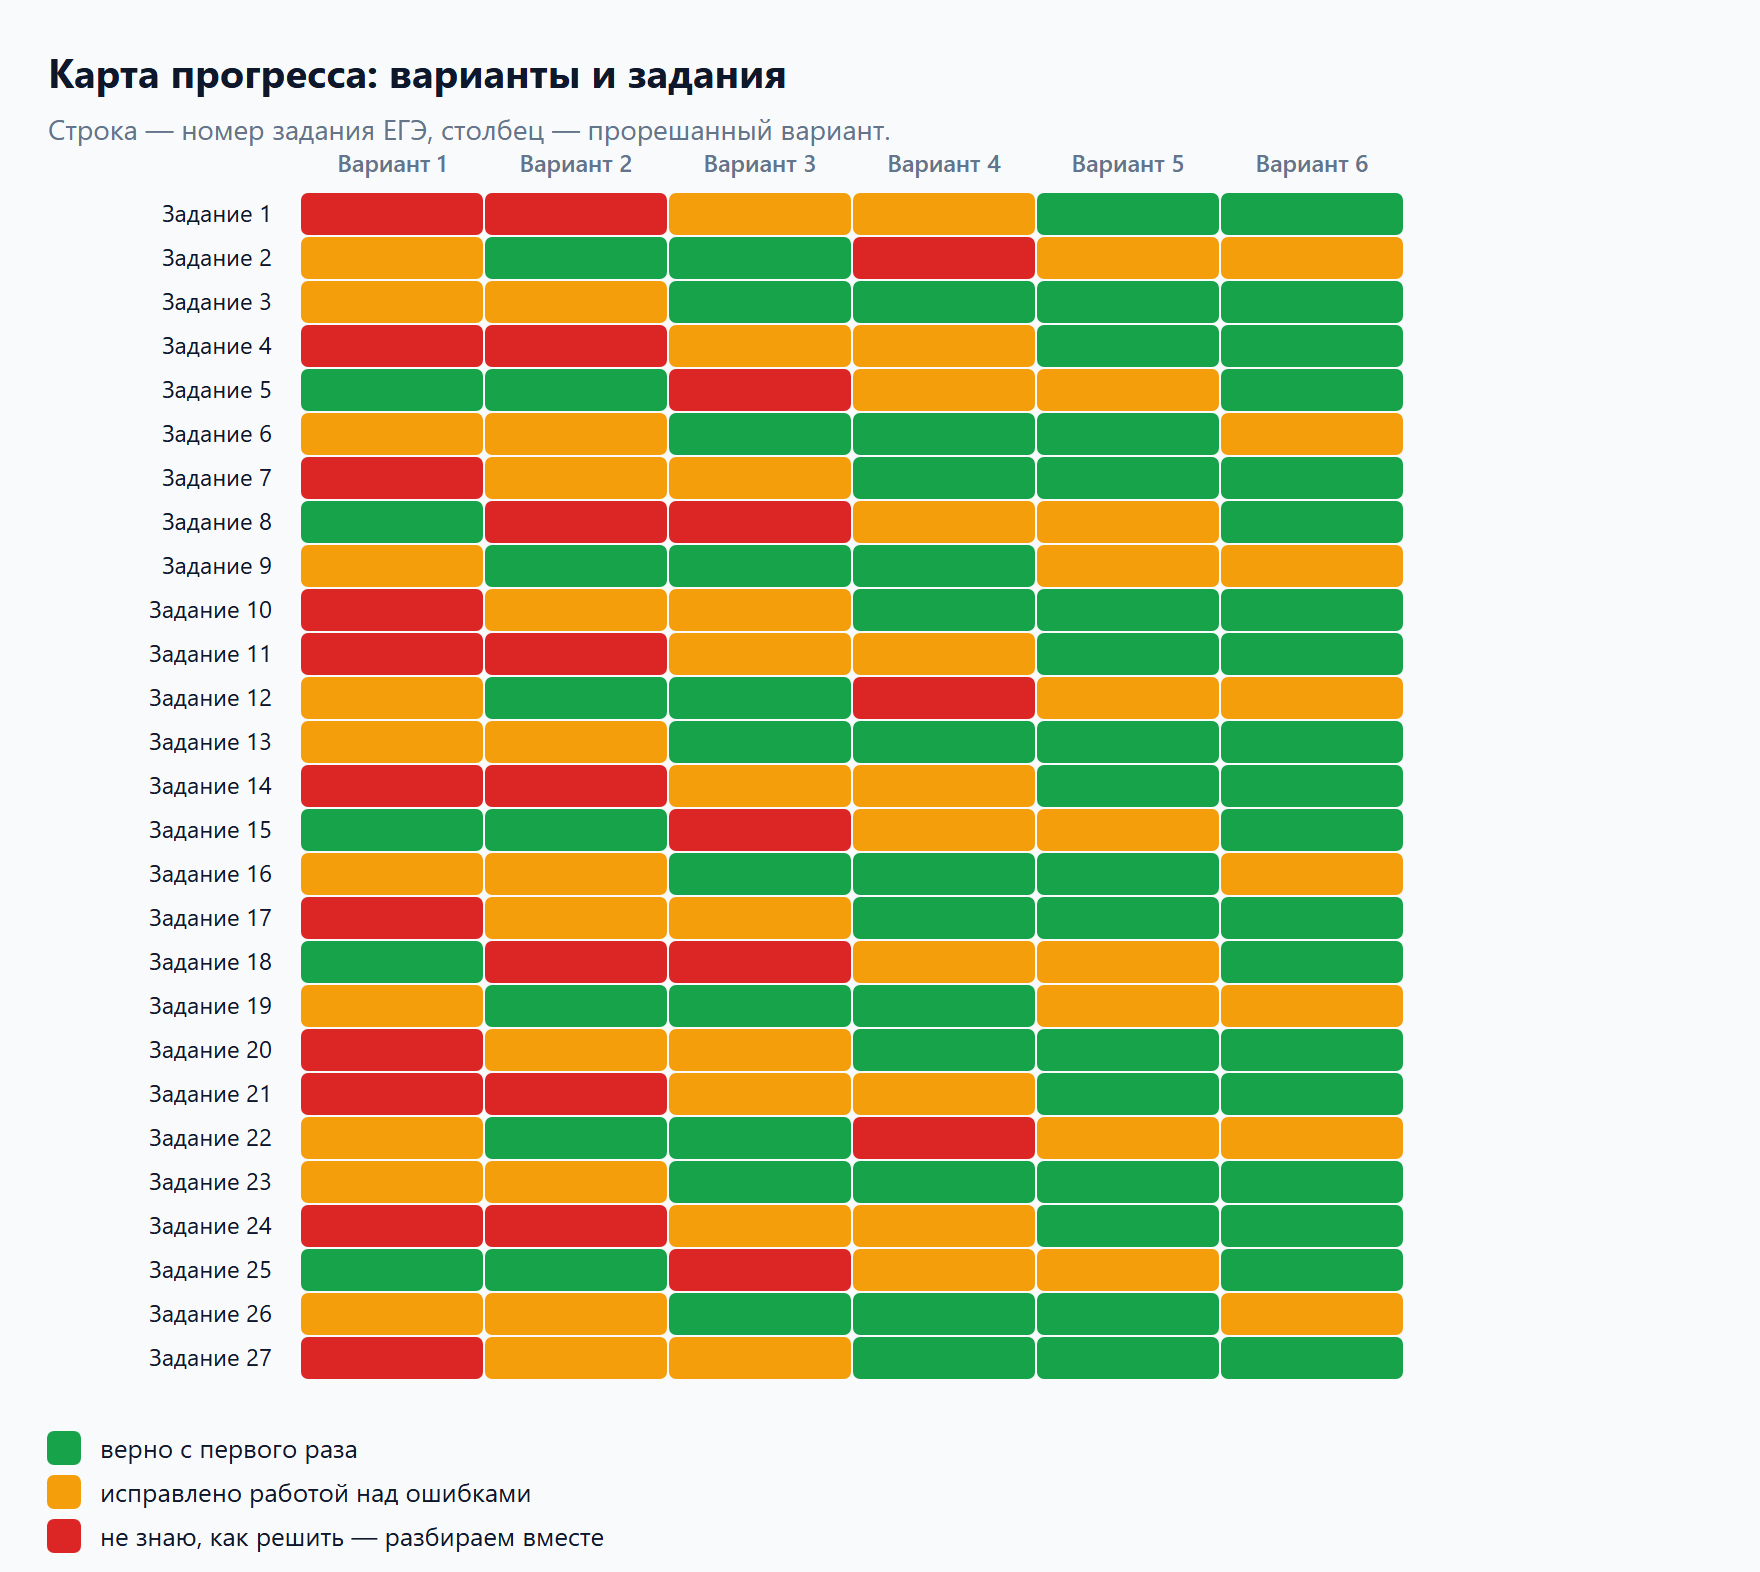
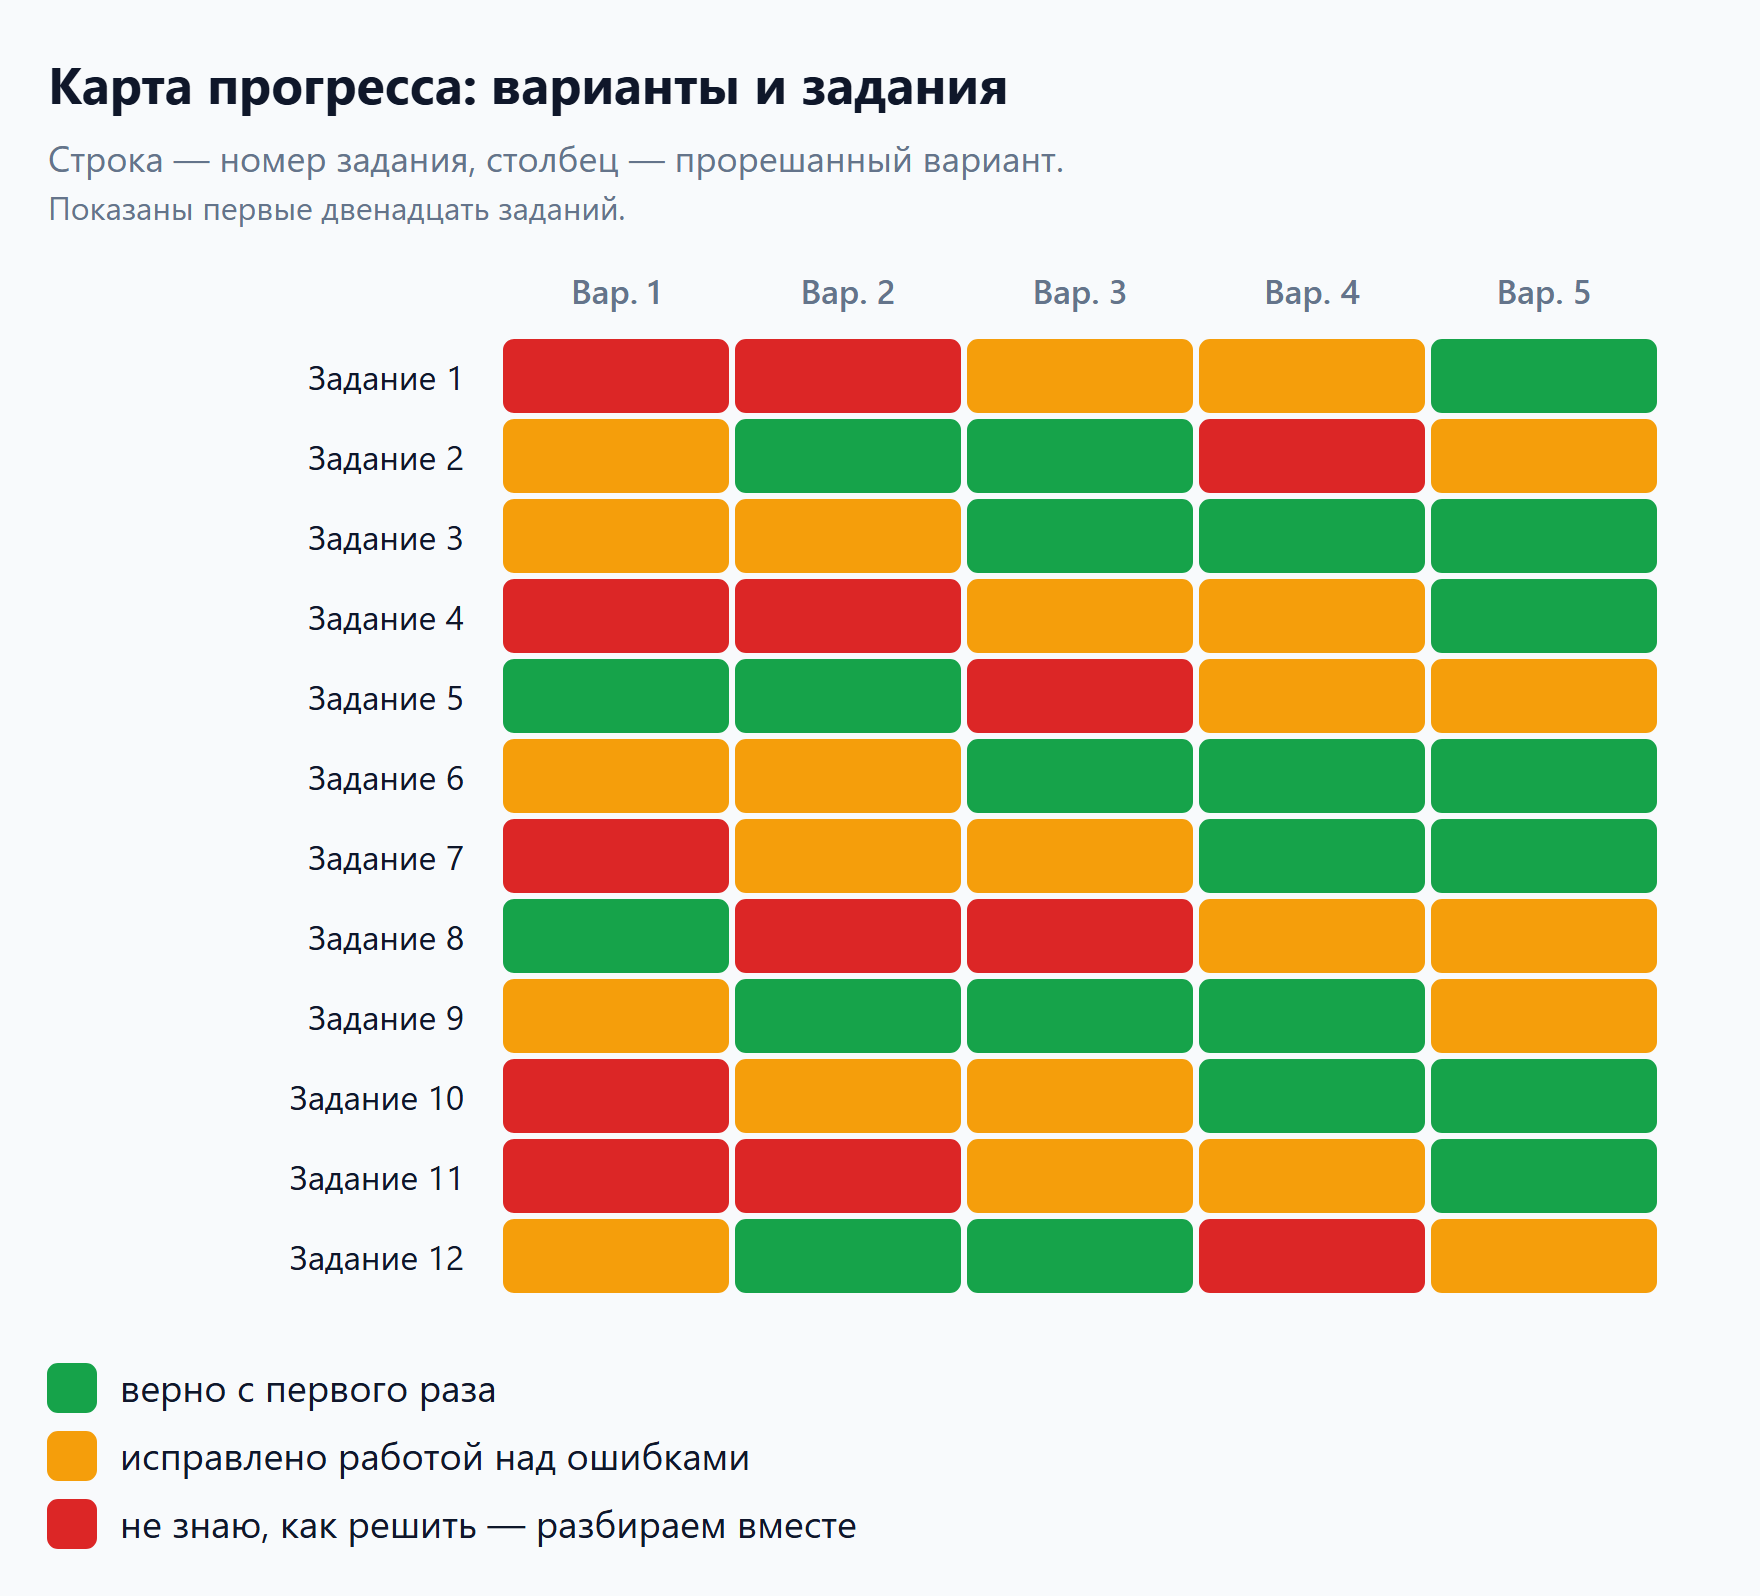
fix: tsk-745 - три онбординга проверены и починены на ширине телефона
Замер по всем 29 страницам на 390 и 360 px: у каждого элемента правый
край сверялся с краем экрана, отдельно ловились широкие таблицы и
горизонтальная прокрутка. Инструмент сохранён в scripts/.

Четыре находки:
- таблица практических заданий ОГЭ вылезала на 11 px - сведена к трём
  колонкам;
- материал описывал верхнее меню как видимую строку, а до 768 px оно
  свёрнуто в кнопку с тремя полосками - для ученика с телефона описание
  было неверным, добавлен подраздел;
- карта прогресса 27x5 на телефоне превращалась в нечитаемые штрихи -
  пересобрана фрагментом 12x5 с крупными подписями;
- пересобранный образ не доезжал до материала: адрес в CAS считается по
  содержимому, а плейсхолдера в тексте уже нет. Импортёр теперь обновляет
  src у картинки с тем же alt.

После правок 29 из 29 страниц чисты на обеих ширинах.

diff --git a/scripts/tsk745_build_visuals.py b/scripts/tsk745_build_visuals.py
@@ -256,53 +256,54 @@ def scene_ege_karta() -> tuple[int, str]:
 
     Данные вымышленные: настоящая таблица содержит фамилии учеников и ссылки на
     варианты, а этот образ увидит любой ученик курса.
+
+    Показан ФРАГМЕНТ 12x5, а не все 27 заданий: полная сетка на телефоне
+    сжимается до нечитаемых штрихов (проверено на 360 px). Двенадцати строк
+    хватает, чтобы увидеть главное — как от варианта к варианту убывает красное.
     """
-    rows = 27
-    cols = 6
-    x0, y0 = 150, 96
-    cw, ch = 92, 22
-    # Раскладка детерминированная и с ЗАМЫСЛОМ: доля красного падает от первого
-    # варианта к шестому. Карта в курсе показывает не «пёстрые квадратики», а то,
-    # ради чего она заведена, — что при работе над ошибками цвет меняется.
-    # Случайный шум здесь выглядел бы как «прогресса нет».
+    rows = 12
+    cols = 5
+    x0, y0 = 250, 168
+    cw, ch = 116, 40
+
+    # Детерминированная раскладка с ЗАМЫСЛОМ: доля красного падает от первого
+    # варианта к последнему. Случайный шум читался бы как «прогресса нет».
     def cell(r: int, c: int) -> str:
         v = (r * 7 + c * 11) % 10
-        if v < 4 - c:          # красного всё меньше, к варианту 4 не остаётся
+        if v < 4 - c:
             return "r"
-        if v < 8 - c:          # жёлтое тоже убывает, но медленнее
+        if v < 8 - c:
             return "y"
         return "g"
 
-    cells = ["".join(cell(r, c) for c in range(cols)) for r in range(rows)]
-    color = {"g": ("#16a34a", "#ffffff"), "y": ("#f59e0b", "#1f2937"), "r": ("#dc2626", "#ffffff")}
+    color = {"g": "#16a34a", "y": "#f59e0b", "r": "#dc2626"}
 
-    h = y0 + rows * ch + 96
-    b = text(24, 44, "Карта прогресса: варианты и задания", size=20, weight="700")
-    b += text(24, 70, "Строка — номер задания ЕГЭ, столбец — прорешанный вариант.",
-              size=14, fill=MUTED)
+    h = y0 + rows * ch + 150
+    b = text(24, 52, "Карта прогресса: варианты и задания", size=26, weight="700")
+    b += text(24, 86, "Строка — номер задания, столбец — прорешанный вариант.",
+              size=18, fill=MUTED)
+    b += text(24, 110, "Показаны первые двенадцать заданий.", size=16, fill=MUTED)
 
     for c in range(cols):
-        b += text(x0 + c * cw + cw / 2, y0 - 10, f"Вариант {c + 1}", size=12,
+        b += text(x0 + c * cw + cw / 2, y0 - 16, f"Вар. {c + 1}", size=17,
                   fill=MUTED, weight="600", anchor="middle")
     for r in range(rows):
         y = y0 + r * ch
-        b += text(x0 - 14, y + 15, f"Задание {r + 1}", size=12, fill=INK, anchor="end")
+        b += text(x0 - 18, y + 27, f"Задание {r + 1}", size=17, anchor="end")
         for c in range(cols):
-            fill, fg = color[cells[r][c]]
-            b += rect(x0 + c * cw + 1, y + 1, cw - 2, ch - 2, fill=fill, stroke=fill, r=3)
+            fill = color[cell(r, c)]
+            b += rect(x0 + c * cw + 2, y + 2, cw - 4, ch - 4, fill=fill, stroke=fill, r=5)
 
-    ly = y0 + rows * ch + 26
+    ly = y0 + rows * ch + 34
     for i, (code, label) in enumerate([
         ("g", "верно с первого раза"),
         ("y", "исправлено работой над ошибками"),
         ("r", "не знаю, как решить — разбираем вместе"),
     ]):
-        y = ly + i * 22
-        fill, _ = color[code]
-        b += rect(24, y, 16, 16, fill=fill, stroke=fill, r=3)
-        b += text(50, y + 13, label, size=13)
+        y = ly + i * 34
+        b += rect(24, y, 24, 24, fill=color[code], stroke=color[code], r=5)
+        b += text(60, y + 19, label, size=19)
     return h, b
-
 
 
 def scene_oge_bally() -> tuple[int, str]:

diff --git a/scripts/tsk745_import_onboarding.py b/scripts/tsk745_import_onboarding.py
@@ -192,9 +192,25 @@ def fill_images(plan: Dict[str, Any], urls: Dict[str, str]) -> int:
             count += 1
         return body
 
+    def refresh(body: str) -> str:
+        """Обновить адрес у УЖЕ вставленной картинки.
+
+        Адрес в CAS считается по содержимому: пересобрал образ — адрес другой, а
+        в материале остался прежний, и плейсхолдера там уже нет. Сопоставляем по
+        `alt` — он берётся из IMAGES и при пересборке образа не меняется.
+        """
+        nonlocal count
+        for image_id, url in urls.items():
+            alt, _caption = IMAGES[image_id]
+            pattern = re.compile(
+                r'<img src="[^"]*" alt="' + re.escape(alt) + r'">')
+            body, n = pattern.subn('<img src="%s" alt="%s">' % (url, alt), body)
+            count += n
+        return body
+
     for node in [plan["root"], *plan["subcourses"]]:
         for material in _node_materials(node):
-            material["body"] = patch(material["body"])
+            material["body"] = refresh(patch(material["body"]))
     return count
 
 

diff --git a/docs/curriculum/reviews/naive/audit.md b/docs/curriculum/reviews/naive/audit.md
@@ -115,3 +115,56 @@
 - Механическая проверка банка: markdown-разметка, дубли подсказок, слив ответа
   подстрокой, позиция верного варианта, плейсхолдеры образов — по всем трём
   курсам после правок ноль находок.
+
+---
+
+## Мобильный аудит (31.08, добавлено после ревью)
+
+Проверены **все 29 страниц** трёх курсов — 22 материала, 3 страницы курсов, список
+курсов и по одному заданию каждого типа — на ширинах **390 px** (iPhone) и
+**360 px** (типовой Android). Замер автоматический: у каждого элемента внутри
+контента сравнивался правый край с краем экрана, отдельно ловились таблицы шире
+своего контейнера и горизонтальная прокрутка страницы.
+
+### Что нашли
+
+**1. Таблица практических заданий ОГЭ вылезала за экран на 11 px** (К8).
+Четыре колонки (№ · Тема · Чем решается · Баллов) не помещались. Сведена к трём:
+баллы перенесены в колонку «Чем решается и сколько стоит» — данные сохранены,
+лишняя ширина ушла.
+
+**2. Материал описывал меню, которого на телефоне нет** (К11, точность).
+Раздел «Кабинет» утверждал: «оно одинаковое на всех экранах — восемь разделов
+подряд», и показывал образ десктопной строки. На ширине до 768 px меню
+сворачивается в кнопку с тремя полосками (`md:hidden` в `AppHeader.tsx`, панель
+«Меню» слева). Для школьника с телефона описание было просто неверным. Добавлен
+подраздел «С телефона меню спрятано» и оговорка в итоге раздела.
+
+**3. Карта прогресса ЕГЭ на телефоне превращалась в штрихи** (К8, UDL).
+Сетка 27×6 при сжатии до ширины колонки давала нечитаемые подписи. Пересобрана
+фрагментом 12×5 с крупными подписями — смысл образа («от варианта к варианту
+красного меньше») сохранён, подписи различимы.
+
+**4. Пересобранный образ не доезжал до материала** (механика, не контент).
+Адрес файла в хранилище считается по его содержимому: пересобрал картинку —
+получил новый адрес, а в материале остался старый, потому что плейсхолдера
+`IMG::` там уже нет. Материал молча показывал бы прежнюю версию. Починено в
+импортёре: после загрузки он обновляет `src` у картинки с тем же `alt`.
+
+### Итог
+
+После правок: **29 из 29 страниц чисты на обеих ширинах** — ни горизонтальной
+прокрутки, ни вылезающих элементов, ни обрезанных таблиц.
+
+### Что осталось оговоркой
+
+Образы экранов кабинета (меню, карточка курса, дерево разделов, экран задания,
+блок помощи, карточка занятия, страница оплаты) собраны под ширину 880 px и на
+телефоне мелковаты. Информация из них полностью продублирована текстом рядом —
+списки разделов, названия кнопок, пометки — поэтому смысл не теряется, но как
+иллюстрация на телефоне они работают слабо. Если понадобится, их можно пересобрать
+под узкую колонку по образцу карты прогресса.
+
+Инструмент замера: `scratchpad/mobile_audit.mjs` (Playwright под живым профилем
+ученика). Повторяется одной командой из `D:\Work\SPW`, годится для любых будущих
+курсов.
